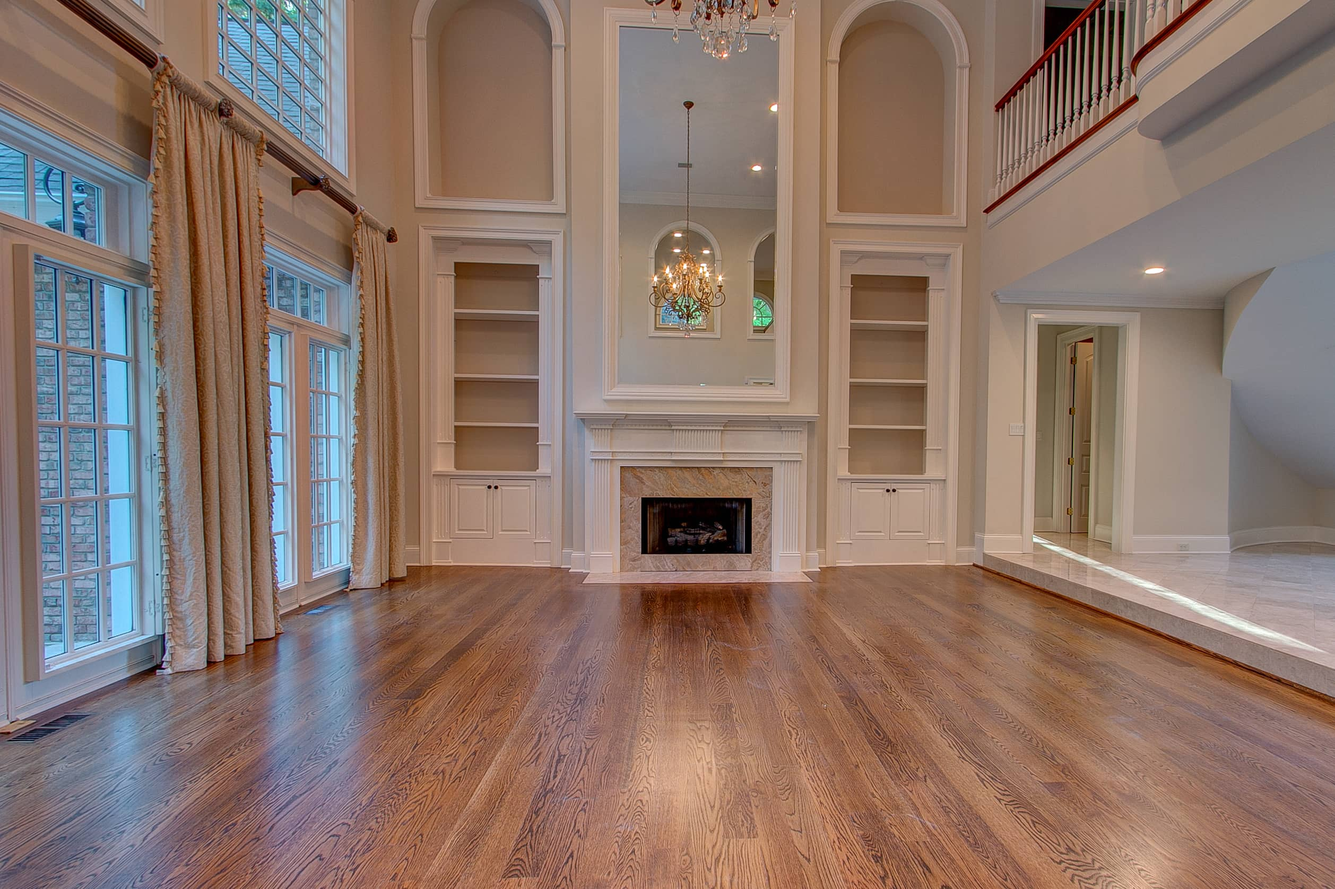
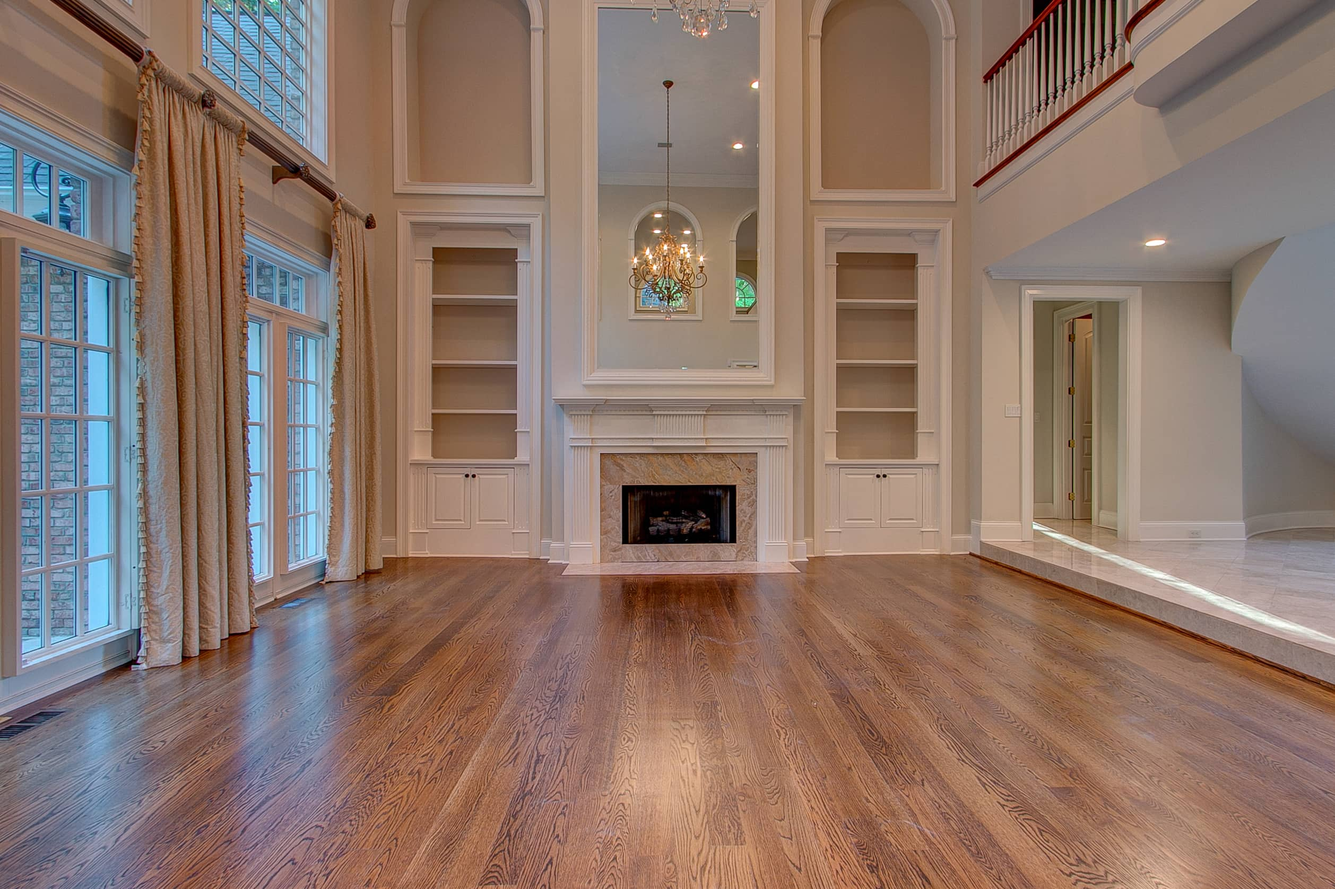
ReadME images & Front page text size lowered

diff --git a/realhome/build/index.html b/realhome/build/index.html
@@ -1,1 +1,1 @@
-<!doctype html><html lang="en"><head><meta http-equiv="ScreenOrientation" content="autoRotate:disabled"><meta charset="utf-8"/><link rel="icon" href="/favicon.ico"/><meta name="viewport" content="width=device-width,initial-scale=1"/><meta name="theme-color" content="#000000"/><meta name="viewport" content="width=device-width"><meta name="description" content="Web site created using create-react-app"/><link rel="apple-touch-icon" href="/logo.png"/><link rel="manifest" href="/manifest.json"/><title>Real Home Photography</title><link href="/static/css/2.20aa2d7b.chunk.css" rel="stylesheet"><link href="/static/css/main.c03f091b.chunk.css" rel="stylesheet"></head><body><noscript>You need to enable JavaScript to run this app.</noscript><div id="root"></div><script src="https://www.gstatic.com/firebasejs/8.2.1/firebase-app.js"></script><script src="https://www.gstatic.com/firebasejs/8.2.1/firebase-analytics.js"></script><script>var firebaseConfig={apiKey:"AIzaSyB6NBdr7APwTKYQqyssbKv-YaoLwNiGqwA",authDomain:"real-home-photography.firebaseapp.com",projectId:"real-home-photography",storageBucket:"real-home-photography.appspot.com",messagingSenderId:"251069568215",appId:"1:251069568215:web:5c319b50f407ce00224c92",measurementId:"G-19ETFN8DDF"};firebase.initializeApp(firebaseConfig),firebase.analytics()</script><script>!function(e){function r(r){for(var n,a,i=r[0],c=r[1],l=r[2],s=0,p=[];s<i.length;s++)a=i[s],Object.prototype.hasOwnProperty.call(o,a)&&o[a]&&p.push(o[a][0]),o[a]=0;for(n in c)Object.prototype.hasOwnProperty.call(c,n)&&(e[n]=c[n]);for(f&&f(r);p.length;)p.shift()();return u.push.apply(u,l||[]),t()}function t(){for(var e,r=0;r<u.length;r++){for(var t=u[r],n=!0,i=1;i<t.length;i++){var c=t[i];0!==o[c]&&(n=!1)}n&&(u.splice(r--,1),e=a(a.s=t[0]))}return e}var n={},o={1:0},u=[];function a(r){if(n[r])return n[r].exports;var t=n[r]={i:r,l:!1,exports:{}};return e[r].call(t.exports,t,t.exports,a),t.l=!0,t.exports}a.e=function(e){var r=[],t=o[e];if(0!==t)if(t)r.push(t[2]);else{var n=new Promise((function(r,n){t=o[e]=[r,n]}));r.push(t[2]=n);var u,i=document.createElement("script");i.charset="utf-8",i.timeout=120,a.nc&&i.setAttribute("nonce",a.nc),i.src=function(e){return a.p+"static/js/"+({}[e]||e)+"."+{3:"5e77805f"}[e]+".chunk.js"}(e);var c=new Error;u=function(r){i.onerror=i.onload=null,clearTimeout(l);var t=o[e];if(0!==t){if(t){var n=r&&("load"===r.type?"missing":r.type),u=r&&r.target&&r.target.src;c.message="Loading chunk "+e+" failed.\n("+n+": "+u+")",c.name="ChunkLoadError",c.type=n,c.request=u,t[1](c)}o[e]=void 0}};var l=setTimeout((function(){u({type:"timeout",target:i})}),12e4);i.onerror=i.onload=u,document.head.appendChild(i)}return Promise.all(r)},a.m=e,a.c=n,a.d=function(e,r,t){a.o(e,r)||Object.defineProperty(e,r,{enumerable:!0,get:t})},a.r=function(e){"undefined"!=typeof Symbol&&Symbol.toStringTag&&Object.defineProperty(e,Symbol.toStringTag,{value:"Module"}),Object.defineProperty(e,"__esModule",{value:!0})},a.t=function(e,r){if(1&r&&(e=a(e)),8&r)return e;if(4&r&&"object"==typeof e&&e&&e.__esModule)return e;var t=Object.create(null);if(a.r(t),Object.defineProperty(t,"default",{enumerable:!0,value:e}),2&r&&"string"!=typeof e)for(var n in e)a.d(t,n,function(r){return e[r]}.bind(null,n));return t},a.n=function(e){var r=e&&e.__esModule?function(){return e.default}:function(){return e};return a.d(r,"a",r),r},a.o=function(e,r){return Object.prototype.hasOwnProperty.call(e,r)},a.p="/",a.oe=function(e){throw console.error(e),e};var i=this.webpackJsonprealhome=this.webpackJsonprealhome||[],c=i.push.bind(i);i.push=r,i=i.slice();for(var l=0;l<i.length;l++)r(i[l]);var f=c;t()}([])</script><script src="/static/js/2.c5dcaeaa.chunk.js"></script><script src="/static/js/main.ef7f9430.chunk.js"></script></body></html>
+<!doctype html><html lang="en"><head><meta http-equiv="ScreenOrientation" content="autoRotate:disabled"><meta charset="utf-8"/><link rel="icon" href="/favicon.ico"/><meta name="viewport" content="width=device-width,initial-scale=1"/><meta name="theme-color" content="#000000"/><meta name="viewport" content="width=device-width"><meta name="description" content="Web site created using create-react-app"/><link rel="apple-touch-icon" href="/logo.png"/><link rel="manifest" href="/manifest.json"/><title>Real Home Photography</title><link href="/static/css/2.20aa2d7b.chunk.css" rel="stylesheet"><link href="/static/css/main.af522605.chunk.css" rel="stylesheet"></head><body><noscript>You need to enable JavaScript to run this app.</noscript><div id="root"></div><script src="https://www.gstatic.com/firebasejs/8.2.1/firebase-app.js"></script><script src="https://www.gstatic.com/firebasejs/8.2.1/firebase-analytics.js"></script><script>var firebaseConfig={apiKey:"AIzaSyB6NBdr7APwTKYQqyssbKv-YaoLwNiGqwA",authDomain:"real-home-photography.firebaseapp.com",projectId:"real-home-photography",storageBucket:"real-home-photography.appspot.com",messagingSenderId:"251069568215",appId:"1:251069568215:web:5c319b50f407ce00224c92",measurementId:"G-19ETFN8DDF"};firebase.initializeApp(firebaseConfig),firebase.analytics()</script><script>!function(e){function r(r){for(var n,a,i=r[0],c=r[1],l=r[2],s=0,p=[];s<i.length;s++)a=i[s],Object.prototype.hasOwnProperty.call(o,a)&&o[a]&&p.push(o[a][0]),o[a]=0;for(n in c)Object.prototype.hasOwnProperty.call(c,n)&&(e[n]=c[n]);for(f&&f(r);p.length;)p.shift()();return u.push.apply(u,l||[]),t()}function t(){for(var e,r=0;r<u.length;r++){for(var t=u[r],n=!0,i=1;i<t.length;i++){var c=t[i];0!==o[c]&&(n=!1)}n&&(u.splice(r--,1),e=a(a.s=t[0]))}return e}var n={},o={1:0},u=[];function a(r){if(n[r])return n[r].exports;var t=n[r]={i:r,l:!1,exports:{}};return e[r].call(t.exports,t,t.exports,a),t.l=!0,t.exports}a.e=function(e){var r=[],t=o[e];if(0!==t)if(t)r.push(t[2]);else{var n=new Promise((function(r,n){t=o[e]=[r,n]}));r.push(t[2]=n);var u,i=document.createElement("script");i.charset="utf-8",i.timeout=120,a.nc&&i.setAttribute("nonce",a.nc),i.src=function(e){return a.p+"static/js/"+({}[e]||e)+"."+{3:"5e77805f"}[e]+".chunk.js"}(e);var c=new Error;u=function(r){i.onerror=i.onload=null,clearTimeout(l);var t=o[e];if(0!==t){if(t){var n=r&&("load"===r.type?"missing":r.type),u=r&&r.target&&r.target.src;c.message="Loading chunk "+e+" failed.\n("+n+": "+u+")",c.name="ChunkLoadError",c.type=n,c.request=u,t[1](c)}o[e]=void 0}};var l=setTimeout((function(){u({type:"timeout",target:i})}),12e4);i.onerror=i.onload=u,document.head.appendChild(i)}return Promise.all(r)},a.m=e,a.c=n,a.d=function(e,r,t){a.o(e,r)||Object.defineProperty(e,r,{enumerable:!0,get:t})},a.r=function(e){"undefined"!=typeof Symbol&&Symbol.toStringTag&&Object.defineProperty(e,Symbol.toStringTag,{value:"Module"}),Object.defineProperty(e,"__esModule",{value:!0})},a.t=function(e,r){if(1&r&&(e=a(e)),8&r)return e;if(4&r&&"object"==typeof e&&e&&e.__esModule)return e;var t=Object.create(null);if(a.r(t),Object.defineProperty(t,"default",{enumerable:!0,value:e}),2&r&&"string"!=typeof e)for(var n in e)a.d(t,n,function(r){return e[r]}.bind(null,n));return t},a.n=function(e){var r=e&&e.__esModule?function(){return e.default}:function(){return e};return a.d(r,"a",r),r},a.o=function(e,r){return Object.prototype.hasOwnProperty.call(e,r)},a.p="/",a.oe=function(e){throw console.error(e),e};var i=this.webpackJsonprealhome=this.webpackJsonprealhome||[],c=i.push.bind(i);i.push=r,i=i.slice();for(var l=0;l<i.length;l++)r(i[l]);var f=c;t()}([])</script><script src="/static/js/2.c5dcaeaa.chunk.js"></script><script src="/static/js/main.12ca7c2a.chunk.js"></script></body></html>

diff --git a/realhome/src/components/home_page/MainContent.module.css b/realhome/src/components/home_page/MainContent.module.css
@@ -7,7 +7,7 @@
     position: relative;
     text-align: center;
     color: white;
-    background-image: url('./../../images/real-estate-photo-picture-shot-of-house-interior1-main.jpg');
+    background-image: url('./../../images/Interior/real-estate-photo-picture-shot-of-house-interior8-2.jpg');
     box-shadow: 5px 5px 40px black;
     background-repeat: no-repeat;
     background-size: cover;
@@ -20,7 +20,7 @@
     transform: translate(-1%, -12%);
     margin: 0;
     padding: 0;
-    font-size: 4vh;
+    font-size: 3.5vh;
 
     font-weight: bold;
     font-style: italic;

diff --git a/realhome/src/components/contact/Contact.js b/realhome/src/components/contact/Contact.js
@@ -1,10 +1,9 @@
 import  React from 'react'
-import {Container, Row, Col, Image} from 'react-bootstrap'
-import {TextField, Button, FormControl, Grid, ThemeProvider} from '@material-ui/core'
+import {Image} from 'react-bootstrap'
+import {TextField, Button, FormControl, ThemeProvider} from '@material-ui/core'
 import logo from './../../images/logo.png'
 import * as emailjs from 'emailjs-com'
 import './contact.css'
-import MediaQuery from 'react-responsive'
 
 class Contact extends React.PureComponent {
 
